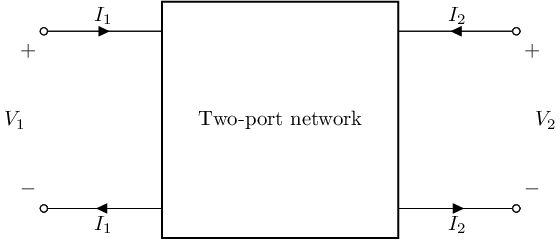
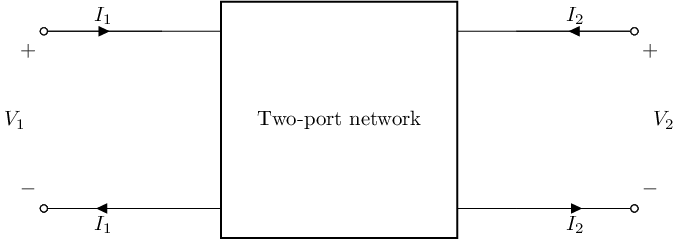
Fix twoport scaling

diff --git a/lcapy/schemcpts.py b/lcapy/schemcpts.py
@@ -89,6 +89,7 @@ class Cpt(object):
     can_invert = False
     do_transpose = False    
     can_stretch = True
+    shape_scale = 1.0
     default_width = 1.0
     default_aspect = 1.0
     # node_pinnames maps node numbers to pinnames
@@ -213,7 +214,7 @@ class Cpt(object):
             val = self.default_width
         if val == '':
             val = self.default_width
-        return float(val)
+        return float(val) * self.shape_scale
 
     @property
     def scale(self):
@@ -913,7 +914,7 @@ class StretchyCpt(Cpt):
     can_stretch = True
 
     def xtf(self, centre, offset, angle_offset=0.0):
-        """Transform coordinate."""
+        """Transform x coordinate."""
 
         # Note the size attribute is not used.   This only scales the x coords.
         if isinstance(offset[0], tuple):
@@ -2172,23 +2173,44 @@ class Triangle(Shape):
 class TwoPort(Shape):
     """Two-port"""
 
-    default_width = 2
+    shape_scale = 4.0 / 3
+    default_width = 1
     default_aspect = 1
     shape = 'rectangle'
-    pins = {'wnw' : ('l', -0.5, 0.375),
-            'w' : ('l', -0.5, 0),
-            'wsw' : ('l', -0.5, -0.375),
-            'ssw' : ('b', -0.25, -0.5),                              
-            's' : ('b', 0, -0.5),
-            'sse' : ('b', 0.25, -0.5),
-            'ese' : ('r', 0.5, -0.375),                              
-            'e' : ('r', 0.5, 0),
-            'ene' : ('r', 0.5, 0.375),
-            'nne' : ('t', 0.25, 0.5),
-            'n' : ('t', 0, 0.5),
-            'nnw' : ('t', -0.25, 0.5)}
-    node_pinnames = ('ene', 'ese', 'wnw', 'wsw')
+    x = 0.5
+    p = 0.375
+    n = 0.75
+    pins = {'w' : ('l', -x, 0),
+            'ssw' : ('b', -p, -x),                              
+            's' : ('b', 0, -x),
+            'sse' : ('b', p, -x),
+            'e' : ('r', x, 0),
+            'nne' : ('t', p, x),
+            'n' : ('t', 0, x),
+            'nnw' : ('t', -p, x),
+            'in+' : ('lx', -n, p),
+            'in-' : ('lx', -n, -p),
+            'out+' : ('rx', n, p),
+            'out-' : ('rx', n, -p)}
+
+    auxiliary = {'wnw' : ('l', -x, p),                        
+                 'wsw' : ('l', -x, -p),
+                 'ene' : ('l', x, p),                        
+                 'ese' : ('l', x, -p)}
+    auxiliary.update(Shape.auxiliary)
     
+    node_pinnames = ('out+', 'out-', 'in+', 'in-')
+
+
+    def draw(self, **kwargs):    
+
+        s = super(TwoPort, self).draw(**kwargs)
+        s += r'  \draw (%s) -- (%s);''\n' % (self.node('in+').s, self.node('wnw').s)
+        s += r'  \draw (%s) -- (%s);''\n' % (self.node('in-').s, self.node('wsw').s)
+        s += r'  \draw (%s) -- (%s);''\n' % (self.node('ene').s, self.node('out+').s)
+        s += r'  \draw (%s) -- (%s);''\n' % (self.node('ese').s, self.node('out-').s)                
+        
+        return s
 
 class TR(Box2):
     """Transfer function"""
@@ -2936,7 +2958,6 @@ class Ufdopamp(Chip):
                  'lin-' : ('c', -0.375, -0.2),
                  'lout+' : ('c', 0, -0.17),
                  'lout-' : ('c', 0, 0.17)}
-                 
     auxiliary.update(Chip.auxiliary)
     
     ppins = {'out-' : ('r', 0.1, 0.2),

diff --git a/lcapy/twoport.py b/lcapy/twoport.py
@@ -1294,7 +1294,8 @@ class TwoPort(Network, TwoPortMixin):
             return self.tp._net_make(netlist, n1, n2, n3, n4, dir)
 
         n2, n1, n4, n3 = netlist._make_nodes(n2, n1, n4, n3)
-        return 'TP %s %s %s %s; right' % (n3, n4, n1, n2)
+        # TODO: choose appropriate label
+        return 'TP? %s %s %s %s; right, l={}' % (n3, n4, n1, n2)
 
     def _add_elements(self):
         raise ValueError('Cannot generate netlist for two-port objects')

diff --git a/lcapy/oneport.py b/lcapy/oneport.py
@@ -623,7 +623,7 @@ class Par(ParSer):
         num_branches = N // 2
 
         # Draw component in centre if have odd number in parallel.
-        if (N & 1):
+        if N & 1:
             s.append(self.args[N // 2]._net_make(netlist, n3, n4, dir))
 
         na, nb = n3, n4
